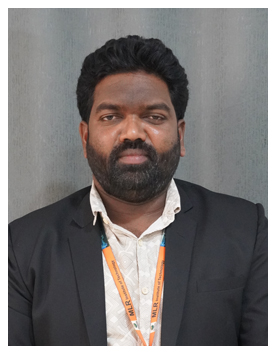
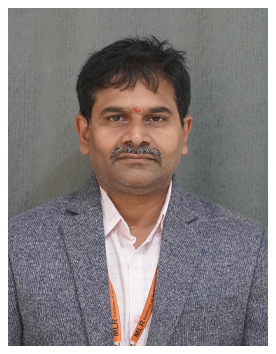
feat: update resources, add Dr. D.B.K. Kamesh to CSE faculty, and update homepage clubs
- Rename ERP → CampusHub in Footer and SideButtons, remove Edmit from SideButtons
- Add Dr. D.B.K. Kamesh (HOD Wing 2) to CSE faculty with photo, bio, publications and books
- Update Ajmeera Kiran designation to HOD Wing 1
- Show both CSE HODs in the From the HOD's Desk section on department overview
- Add hod2Message for Kamesh's HOD card in dept-data
- Remove Navrat Naveli from homepage Our Clubs carousel

diff --git a/components/sections/DepartmentDetail.tsx b/components/sections/DepartmentDetail.tsx
@@ -421,8 +421,9 @@ function getInitials(name: string): string {
 
 function OverviewPanel({ d, data }: PanelProps) {
   const allFaculty = getFacultyByDepartment(d.slug);
-  const hod = allFaculty.find((f) => f.isHod);
-  const hodPhoto = hod?.image ?? data.faculty.find((f) => /head|hod/i.test(f.role))?.photo;
+  const hods = allFaculty.filter((f) => f.isHod);
+  const primaryHod = hods[0];
+  const hodPhoto = primaryHod?.image ?? data.faculty.find((f) => /head|hod/i.test(f.role))?.photo;
   const initials = getInitials(d.hod.name);
   const message =
     data.hodMessage ||
@@ -433,67 +434,124 @@ function OverviewPanel({ d, data }: PanelProps) {
       <PanelHeading id="intro">Introduction</PanelHeading>
 
       {/* ── HOD Message — editorial section ─────────────────────────────────── */}
-      <div
-        className="mt-8 rounded-2xl overflow-hidden"
-        style={{ background: '#fff', border: '1px solid #e8e3d8', borderLeft: '4px solid var(--primary)' }}
-      >
-        <div className="flex flex-col sm:flex-row gap-0">
-          {/* Portrait */}
+      <div className="mt-8 space-y-4">
+        {hods.length > 0 ? hods.map((hodFaculty, idx) => (
           <div
-            className="relative flex-shrink-0 overflow-hidden"
-            style={{ width: 'clamp(140px, 22%, 200px)', minHeight: 'clamp(180px, 25vw, 260px)' }}
+            key={hodFaculty.id}
+            className="rounded-2xl overflow-hidden"
+            style={{ background: '#fff', border: '1px solid #e8e3d8', borderLeft: '4px solid var(--primary)' }}
           >
-            {hodPhoto ? (
-              // eslint-disable-next-line @next/next/no-img-element
-              <img
-                src={hodPhoto}
-                alt={d.hod.name}
-                className="absolute inset-0 w-full h-full object-cover"
-                style={{ objectPosition: '50% 12%' }}
-              />
-            ) : (
+            <div className="flex flex-col sm:flex-row gap-0">
+              {/* Portrait */}
               <div
-                className="absolute inset-0 flex items-center justify-center"
-                style={{ background: 'linear-gradient(160deg, #1F6B24 0%, #2d8b55 100%)' }}
+                className="relative flex-shrink-0 overflow-hidden"
+                style={{ width: 'clamp(140px, 22%, 200px)', minHeight: 'clamp(180px, 25vw, 260px)' }}
               >
-                <span className="font-sans font-black text-white text-[2.2rem] tracking-wider opacity-90">
-                  {initials}
-                </span>
+                {hodFaculty.image ? (
+                  // eslint-disable-next-line @next/next/no-img-element
+                  <img
+                    src={hodFaculty.image}
+                    alt={hodFaculty.name}
+                    className="absolute inset-0 w-full h-full object-cover"
+                    style={{ objectPosition: '50% 12%' }}
+                  />
+                ) : (
+                  <div
+                    className="absolute inset-0 flex items-center justify-center"
+                    style={{ background: 'linear-gradient(160deg, #1F6B24 0%, #2d8b55 100%)' }}
+                  >
+                    <span className="font-sans font-black text-white text-[2.2rem] tracking-wider opacity-90">
+                      {getInitials(hodFaculty.name)}
+                    </span>
+                  </div>
+                )}
+                <div className="absolute inset-0 bg-gradient-to-t from-black/30 via-transparent to-transparent" />
               </div>
-            )}
-            {/* Subtle bottom fade */}
-            <div className="absolute inset-0 bg-gradient-to-t from-black/30 via-transparent to-transparent" />
-          </div>
 
-          {/* Message */}
-          <div className="flex flex-col justify-center gap-4 p-7 md:p-9 flex-1 min-w-0">
-            <div
-              className="font-mono text-[0.62rem] font-extrabold tracking-[0.2em] uppercase"
-              style={{ color: 'var(--primary)' }}
-            >
-              From the HOD&apos;s Desk
-            </div>
+              {/* Message */}
+              <div className="flex flex-col justify-center gap-4 p-7 md:p-9 flex-1 min-w-0">
+                <div
+                  className="font-mono text-[0.62rem] font-extrabold tracking-[0.2em] uppercase"
+                  style={{ color: 'var(--primary)' }}
+                >
+                  From the HOD&apos;s Desk
+                </div>
 
-            <blockquote
-              className="font-display italic leading-[1.85] text-foreground/82"
-              style={{ fontSize: 'clamp(0.97rem, 1.3vw, 1.1rem)' }}
-            >
-              &ldquo;{message}&rdquo;
-            </blockquote>
+                <blockquote
+                  className="font-display italic leading-[1.85] text-foreground/82"
+                  style={{ fontSize: 'clamp(0.97rem, 1.3vw, 1.1rem)' }}
+                >
+                  &ldquo;{idx === 0 ? message : (data.hod2Message ?? hodFaculty.description ?? message)}&rdquo;
+                </blockquote>
 
-            <div className="flex items-center gap-3 pt-1">
-              <div className="h-px w-8 rounded-full" style={{ background: 'var(--primary)', opacity: 0.5 }} />
-              <div>
-                <p className="font-sans font-bold text-foreground text-[0.9rem] leading-snug">
-                  {d.hod.name}
-                </p>
-                <p className="font-mono text-[0.67rem] text-muted tracking-wide">
-                  {d.hod.title}
-                </p>
+                <div className="flex items-center gap-3 pt-1">
+                  <div className="h-px w-8 rounded-full" style={{ background: 'var(--primary)', opacity: 0.5 }} />
+                  <div>
+                    <p className="font-sans font-bold text-foreground text-[0.9rem] leading-snug">
+                      {hodFaculty.name}
+                    </p>
+                    <p className="font-mono text-[0.67rem] text-muted tracking-wide">
+                      {hodFaculty.designation}
+                    </p>
+                  </div>
+                </div>
               </div>
             </div>
           </div>
-        </div>
+        )) : (
+          <div
+            className="rounded-2xl overflow-hidden"
+            style={{ background: '#fff', border: '1px solid #e8e3d8', borderLeft: '4px solid var(--primary)' }}
+          >
+            <div className="flex flex-col sm:flex-row gap-0">
+              <div
+                className="relative flex-shrink-0 overflow-hidden"
+                style={{ width: 'clamp(140px, 22%, 200px)', minHeight: 'clamp(180px, 25vw, 260px)' }}
+              >
+                {hodPhoto ? (
+                  // eslint-disable-next-line @next/next/no-img-element
+                  <img
+                    src={hodPhoto}
+                    alt={d.hod.name}
+                    className="absolute inset-0 w-full h-full object-cover"
+                    style={{ objectPosition: '50% 12%' }}
+                  />
+                ) : (
+                  <div
+                    className="absolute inset-0 flex items-center justify-center"
+                    style={{ background: 'linear-gradient(160deg, #1F6B24 0%, #2d8b55 100%)' }}
+                  >
+                    <span className="font-sans font-black text-white text-[2.2rem] tracking-wider opacity-90">
+                      {initials}
+                    </span>
+                  </div>
+                )}
+                <div className="absolute inset-0 bg-gradient-to-t from-black/30 via-transparent to-transparent" />
+              </div>
+              <div className="flex flex-col justify-center gap-4 p-7 md:p-9 flex-1 min-w-0">
+                <div
+                  className="font-mono text-[0.62rem] font-extrabold tracking-[0.2em] uppercase"
+                  style={{ color: 'var(--primary)' }}
+                >
+                  From the HOD&apos;s Desk
+                </div>
+                <blockquote
+                  className="font-display italic leading-[1.85] text-foreground/82"
+                  style={{ fontSize: 'clamp(0.97rem, 1.3vw, 1.1rem)' }}
+                >
+                  &ldquo;{message}&rdquo;
+                </blockquote>
+                <div className="flex items-center gap-3 pt-1">
+                  <div className="h-px w-8 rounded-full" style={{ background: 'var(--primary)', opacity: 0.5 }} />
+                  <div>
+                    <p className="font-sans font-bold text-foreground text-[0.9rem] leading-snug">{d.hod.name}</p>
+                    <p className="font-mono text-[0.67rem] text-muted tracking-wide">{d.hod.title}</p>
+                  </div>
+                </div>
+              </div>
+            </div>
+          </div>
+        )}
       </div>
 
       {/* Introduction paragraph (if available) */}

diff --git a/lib/faculty.ts b/lib/faculty.ts
@@ -32,7 +32,7 @@ export const FACULTY: FacultyProfile[] = [
     id: "ajmeera-kiran-cse",
     slug: "ajmeera-kiran-cse",
     name: "AJMEERA KIRAN",
-    designation: "Head of Department",
+    designation: "Head of Department (Wing 1)",
     isHod: true,
     department: "cse",
     qualifications: [
@@ -226,6 +226,48 @@ export const FACULTY: FacultyProfile[] = [
     },
     image: "/faculty-new/cse/cse-ajmeera-kiran.jpg",
     imageAlt: "Portrait of AJMEERA KIRAN",
+  },
+  {
+    id: "d-b-k-kamesh-cse",
+    slug: "d-b-k-kamesh-cse",
+    name: "Dr. D.B.K. Kamesh",
+    designation: "Head of Department (Wing 2)",
+    isHod: true,
+    department: "cse",
+    qualifications: [
+    "Ph.D — Computer Science and Engineering",
+    "M.Tech — Computer Science and Engineering",
+    "MCA",
+  ],
+    specialization: [
+    "Computer Science Education, Data Analytics, Cybersecurity, IoT, Machine Learning",
+  ],
+    experience: "20 years",
+    subjectsTaught: [
+    "Data Structures, C Programming, Object-Oriented Programming through Java, Computer Networks, Operating Systems",
+  ],
+    publications: [
+    "1.\tSnort Rule Detection for Countering in Network Attack — FICTA-2016, SPRINGER Publication, International Conference on Frontiers of Intelligent Computing: Theory and Applications (FICTA'16), 2016",
+    "2.\tText-to-Speech Conversion — 3rd International Conference on Advances in Computer Science, Engineering and Technology (ICACSET'16), 2016",
+    "3.\tAutomating WEB interface in relation to user behavior — Artificial Intelligence & Cognitive Computing, 2018",
+    "4.\tIdentification of effective parameters for designing a data channel — Artificial Intelligence & Cognitive Computing, 2018",
+    "5.\tAn advanced framework to identify cybercrime using data analytics — Artificial Intelligence & Cognitive Computing, 2018",
+    "6.\tAn efficient technique for energy-proficient clustering-based routing protocol for packet split and merge in wireless sensor networks — Artificial Intelligence & Cognitive Computing, 2018",
+    "7.\tHome automation using GSM — Artificial Intelligence & Cognitive Computing, 2018",
+    "8.\tOnline speaker authentication using phonemic distance measurements — Artificial Intelligence & Cognitive Computing, 2018",
+    "9.\tA secured surveillance system for monitoring your home — Artificial Intelligence & Cognitive Computing, 2018",
+    "10.\tAn architecture on drome agriculture IoT using Machine learning — 2nd International Conference on Cognitive & Intelligent Computing (ICCIC-2022), 2022",
+    "11.\tMachine Learning-Based Software effort estimation of suggestive Agile and Scrumban Methodologies — 14th International Conference on Soft Computing and Pattern Recognition (SoCPaR 2022), 2022",
+  ],
+    patents: [],
+    books: [
+    "1.\tPractical Approach through C and D.S. Programming — Lulu Publication Raleigh, 2017",
+    "2.\tA Practical Approach for OOP through Java — Lulu Publication Raleigh, 2019",
+  ],
+    description: "Dr. D.B.K. Kamesh is an experienced academician in Computer Science with over 20 years of teaching and research experience. He holds a Ph.D. and an M.Tech in Computer Science and Engineering, along with an MCA qualification. His areas of academic interest include data analytics, cybersecurity, IoT, and machine learning. He has authored books on C programming and Java, and has published research in international conferences and edited volumes on Artificial Intelligence and Cognitive Computing.",
+    email: "kamesh.dk@mlrit.ac.in",
+    image: "/faculty-new/cse/cse-dbk-kamesh.jpg",
+    imageAlt: "Portrait of Dr. D.B.K. Kamesh",
   },
   {
     id: "a-laxmi-prasanna-cse",

diff --git a/lib/dept-data.ts b/lib/dept-data.ts
@@ -26,6 +26,7 @@ export type DeptData = {
   intakeGrowth?: { year: string; students: number }[];
   introduction: string;
   hodMessage: string;
+  hod2Message?: string;
   teachingMethodology: string;
   peos: { id: string; text: string }[];
   labs: Lab[];
@@ -76,6 +77,8 @@ export const DEPT_DATA: Record<string, DeptData> = {
       'The Department of Computer Science and Engineering at MLRIT is one of the institute\'s flagship departments, established in 2005. With 64 dedicated faculty, 12 advanced laboratories and industry partnerships with Boeing, Cyient and EPAM Systems, the department blends rigorous theoretical foundations with hands-on experience in cutting-edge technologies — preparing students to excel in the ever-evolving technology landscape.',
     hodMessage:
       'Our department is committed to providing world-class education blending strong theoretical foundations with hands-on experience in cutting-edge technologies. With 64 dedicated faculty, 12 advanced laboratories, and industry partnerships with Boeing, Cyient, and EPAM Systems, we prepare students to excel in the ever-evolving technology landscape.',
+    hod2Message:
+      'Computer Science at MLRIT is built on a culture of curiosity, rigour and real-world problem solving. Our focus spans data analytics, cybersecurity, IoT and machine learning — equipping every student with the depth to innovate and the breadth to lead across the technology industry.',
     teachingMethodology:
       'The department follows an active learning pedagogy integrating project-based learning, flipped classrooms, and industry-mentored hackathons. Regular guest lectures from professionals at Google, Microsoft, Qualcomm, and ISRO complement the curriculum. Students participate in coding boot camps, open-source contributions, and inter-college technical competitions to build practical skills beyond the classroom.',
     peos: [

diff --git a/components/SideButtons.tsx b/components/SideButtons.tsx
@@ -70,8 +70,8 @@ type Item = {
 
 const ITEMS: Item[] = [
   {
-    label: 'ERP',
-    href: 'https://portal.vmedulife.com/public/auth/#/login/mlrit-hyderabad',
+    label: 'CampusHub',
+    href: 'https://campushub.mlrit.ac.in/',
     external: true,
     icon: (
       <svg width="22" height="22" viewBox="0 0 20 20" fill="none" aria-hidden>
@@ -90,17 +90,6 @@ const ITEMS: Item[] = [
       <svg width="22" height="22" viewBox="0 0 20 20" fill="none" aria-hidden>
         <path d="M3 5h14M3 10h14M3 15h8" stroke="currentColor" strokeWidth="1.6" strokeLinecap="round"/>
         <circle cx="16" cy="15" r="2.5" stroke="currentColor" strokeWidth="1.6"/>
-      </svg>
-    ),
-  },
-  {
-    label: 'Edmit',
-    href: 'https://edmit.mlrit.ac.in/',
-    external: true,
-    icon: (
-      <svg width="22" height="22" viewBox="0 0 20 20" fill="none" aria-hidden>
-        <path d="M10 2L3 6v4c0 4 3.5 7 7 8 3.5-1 7-4 7-8V6l-7-4z" stroke="currentColor" strokeWidth="1.6" strokeLinejoin="round"/>
-        <path d="M7 10l2 2 4-4" stroke="currentColor" strokeWidth="1.6" strokeLinecap="round" strokeLinejoin="round"/>
       </svg>
     ),
   },

diff --git a/components/sections/Events.tsx b/components/sections/Events.tsx
@@ -72,18 +72,6 @@ const SLIDES: Slide[] = [
     video: '/videos/traditionalday.mp4',
     poster:'/images/events/traditionalday-poster.jpg',
   },
-  {
-    logo:  '/assets/logo.svg',
-    alt:   'Navrat Naveli 2025',
-    tag:   'Cultural · Dussehra · 2025',
-    title: 'Navrat Naveli 2025',
-    desc:  'Navrat Naveli is MLRIT\'s Dussehra cultural event — classical and folk performances, garba, rangoli, traditional food and student-led celebrations marking the spirit of the festival across the campus.',
-    quote: 'Music, dance, colour and tradition — Navrat Naveli is how MLRIT celebrates Dussehra together.',
-    speaker: 'Navrat Naveli',
-    speakerRole: 'Cultural Fest · MLRIT',
-    video: '/videos/came.mp4',
-    poster:'https://mlrit-next.vercel.app/assets/SBS_1131.JPG',
-  },
 ];
 
 type EventsProps = {

diff --git a/components/Footer.tsx b/components/Footer.tsx
@@ -104,7 +104,7 @@ const USEFUL_SECTIONS = [
       { label: 'NSS Event Reports', href: 'https://mlrit.ac.in/nss-event-reports/', ext: true },
       { label: 'Virtual Tour',      href: '/student-life/discover-mlr' },
       { label: 'LMS',               href: 'https://lms.mlrit.ac.in/',              ext: true },
-      { label: 'ERP Login',         href: 'https://portal.vmedulife.com/public/auth/#/login/mlrit-hyderabad', ext: true },
+      { label: 'CampusHub',          href: 'https://campushub.mlrit.ac.in/', ext: true },
     ],
   },
 ];
